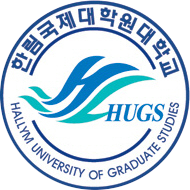
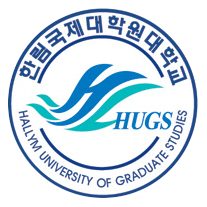
Match emblem circle sizes, drop dark-mode card backdrop
The two emblem PNGs had different transparent padding (4px margin vs
0px), so the circles rendered at slightly different diameters even
at equal box heights. Normalized both to identical 4% margin.

Also removed .landing-footer-logos' white card background — it was
added to keep the old low-contrast wordmarks legible on black, but
the emblems already carry their own white fill and don't need it.

diff --git a/components/landing/LandingThemeShell.tsx b/components/landing/LandingThemeShell.tsx
@@ -113,13 +113,6 @@ export function LandingThemeShell({ children }: { children: ReactNode }) {
           color: #ffffff !important;
         }
 
-        .landing-footer-logos {
-          border-radius: 8px;
-          background: rgba(255, 255, 255, 0.9);
-          padding: 10px 14px;
-          box-shadow: 0 18px 50px rgba(0, 0, 0, 0.18);
-        }
-
         [data-landing-theme="light"] .landing-footer {
           background: #f6efdf !important;
           border-color: rgba(23, 19, 12, 0.14) !important;
@@ -133,12 +126,6 @@ export function LandingThemeShell({ children }: { children: ReactNode }) {
 
         [data-landing-theme="light"] .landing-footer a:hover {
           color: #17130c !important;
-        }
-
-        [data-landing-theme="light"] .landing-footer-logos {
-          background: transparent;
-          padding: 0;
-          box-shadow: none;
         }
 
         .landing-cursor-glow {

diff --git a/components/landing/LandingFooter.tsx b/components/landing/LandingFooter.tsx
@@ -10,15 +10,15 @@ export function LandingFooter() {
           <Image
             src="/brand/hallym-university-emblem.png"
             alt="한림대학교"
-            width={186}
-            height={186}
+            width={193}
+            height={193}
             className="h-[72px] w-auto object-contain sm:h-[80px]"
           />
           <Image
             src="/brand/hallym-graduate-studies-emblem.png"
             alt="한림국제대학원대학교"
-            width={190}
-            height={190}
+            width={207}
+            height={207}
             className="h-[72px] w-auto object-contain sm:h-[80px]"
           />
         </div>
